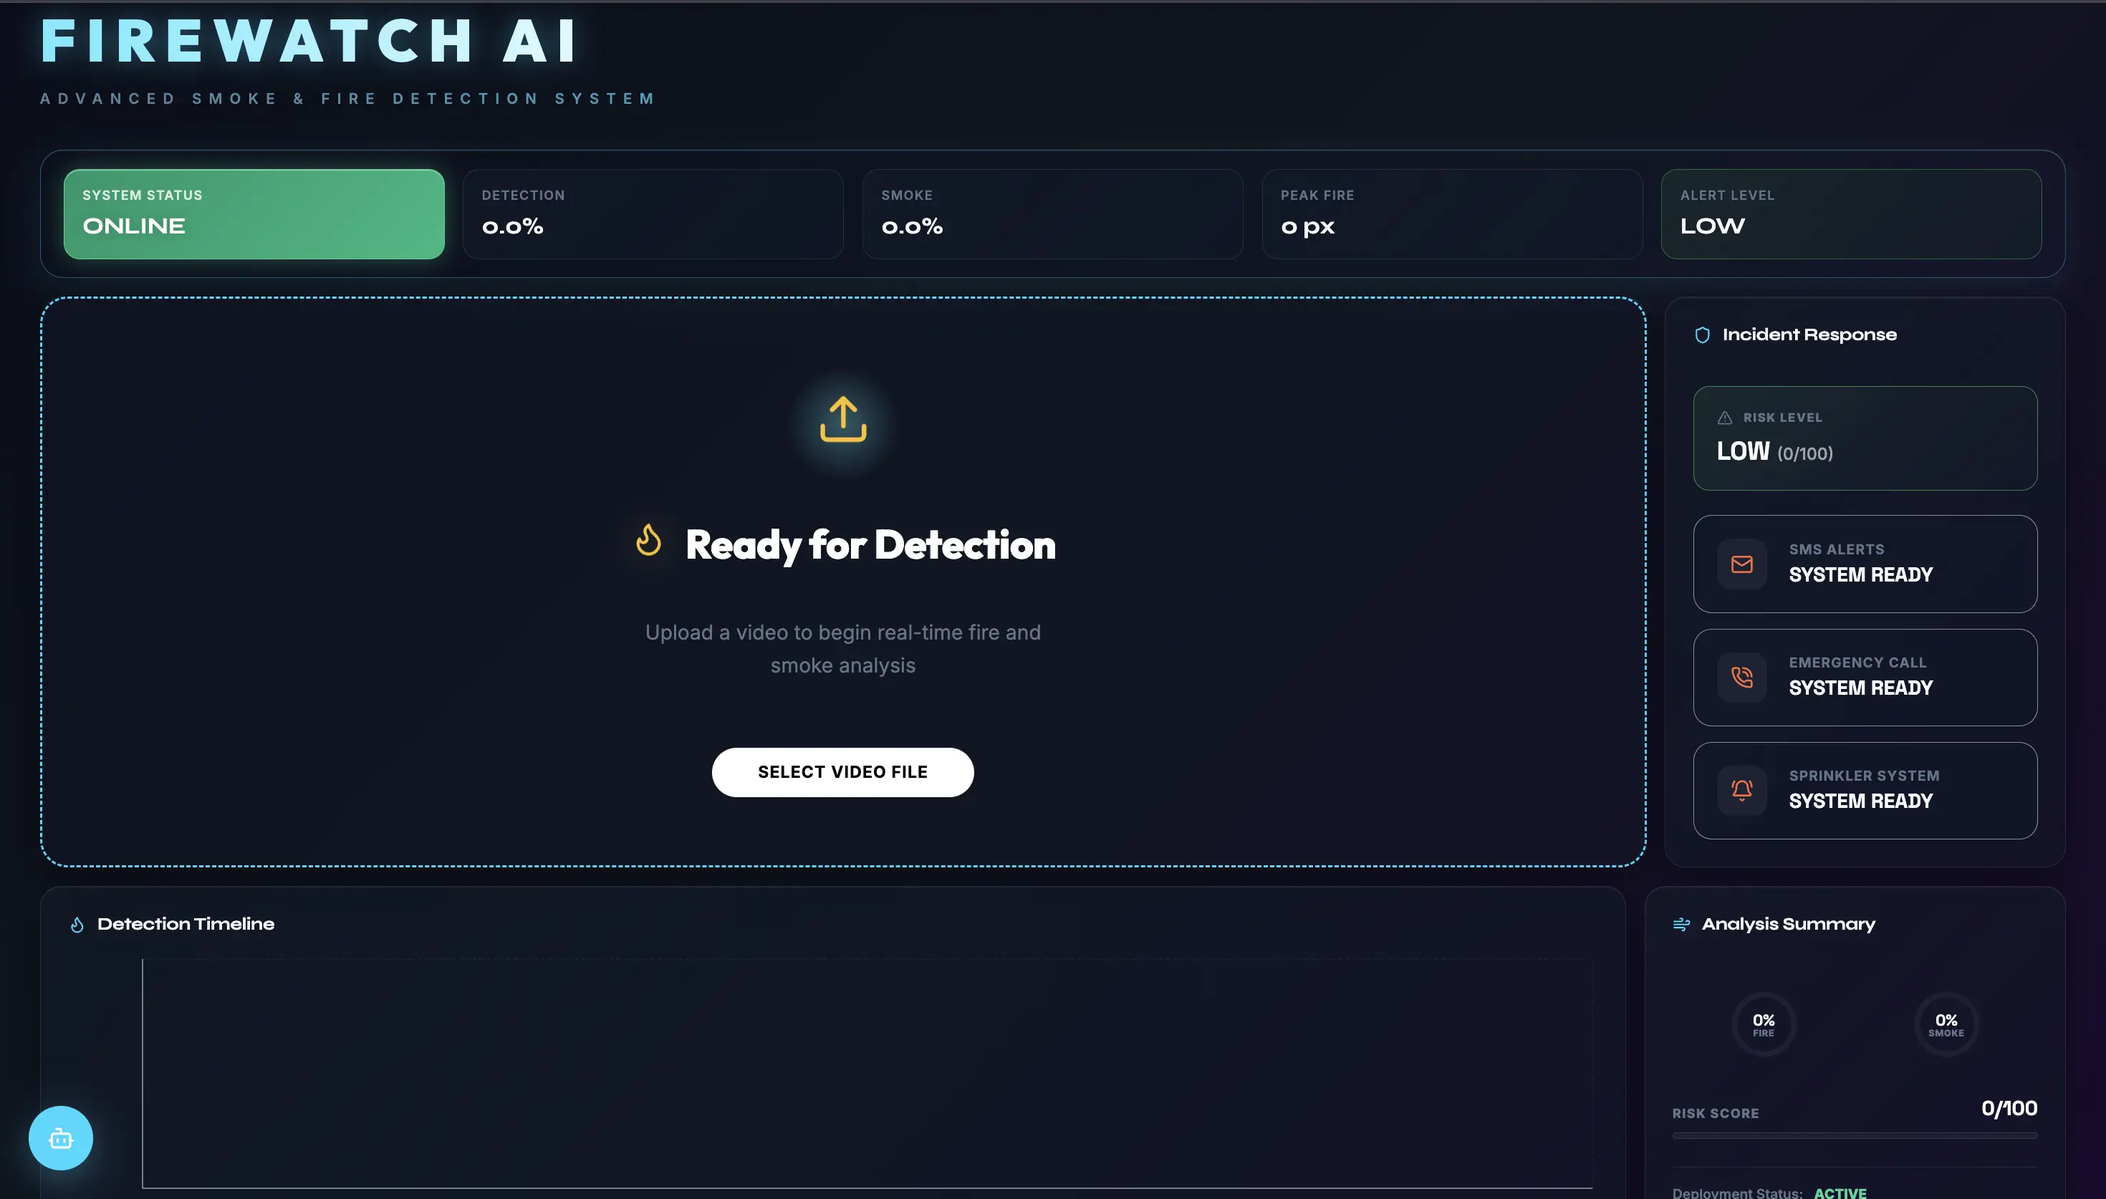
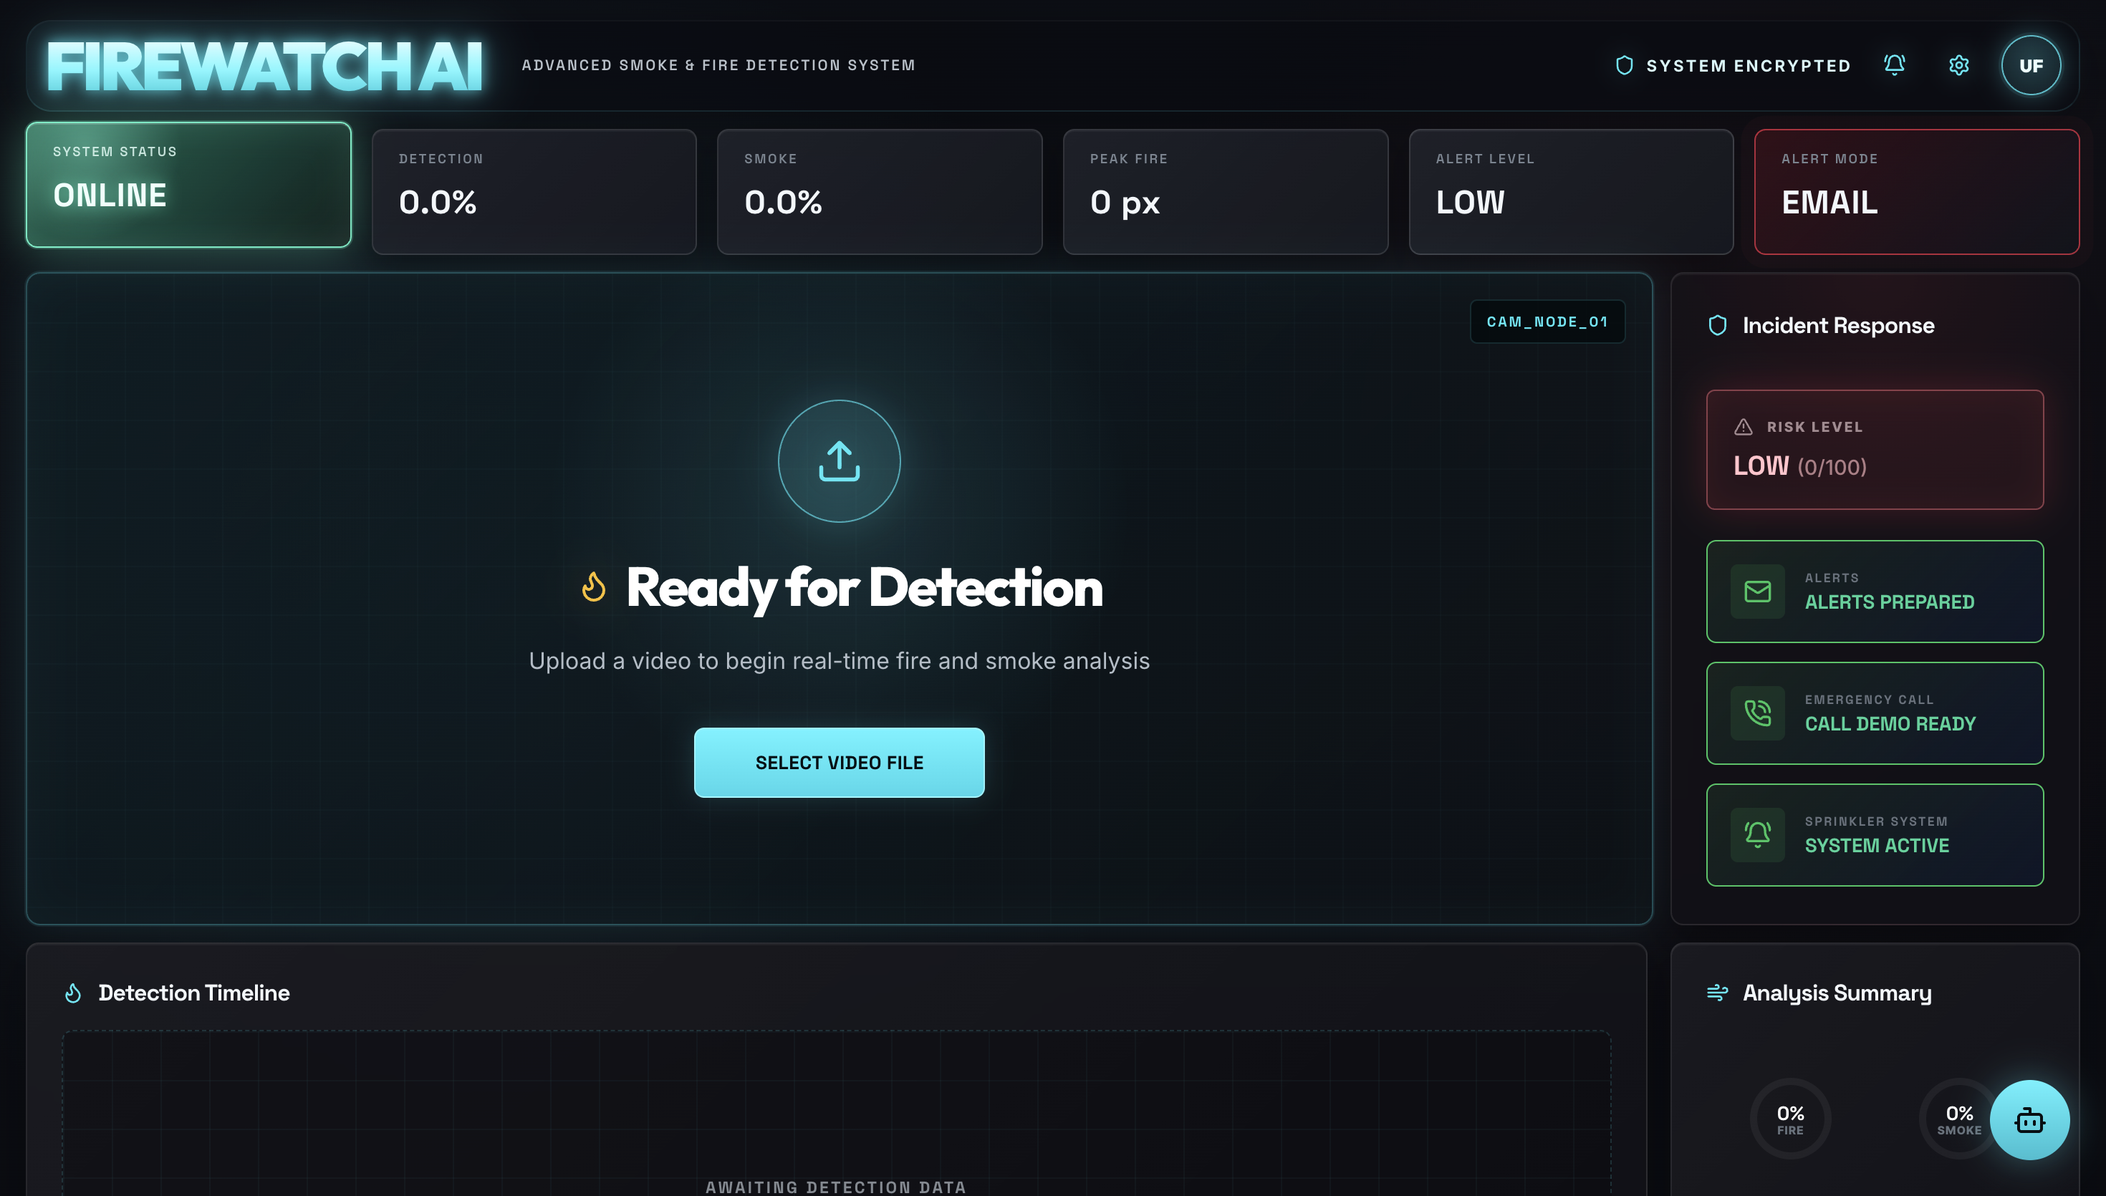
feat: add certificates section to portfolio, including new certificate cards and update navigation links

diff --git a/index.html b/index.html
@@ -4651,6 +4651,7 @@
     <ul class="nav-links">
       <li><a href="#about">About</a></li>
       <li><a href="#education">Education</a></li>
+      <li><a href="#certificates">Certificates</a></li>
       <li><a href="#experience">Experience</a></li>
       <li><a href="#projects">Projects</a></li>
       <li><a href="#skills">Skills</a></li>
@@ -4665,6 +4666,7 @@
   <div class="mob" id="mob">
     <a href="#about">About</a>
     <a href="#education">Education</a>
+    <a href="#certificates">Certificates</a>
     <a href="#experience">Experience</a>
     <a href="#projects">Projects</a>
     <a href="#skills">Skills</a>
@@ -4808,6 +4810,166 @@
             <span class="bdg ba">Biology A+</span><span class="bdg ba">Chemistry A+</span><span class="bdg ba">1085
               Marks</span><span class="bdg ba">98.6%</span>
           </div>
+        </div>
+      </div>
+    </div>
+  </section>
+
+  <section class="sec reveal" id="certificates">
+    <div class="inn">
+      <p class="sl sl-l" style="color:var(--amber)">Certificates</p>
+      <h2 class="st wr">
+        <span class="w"><span class="wi">Licenses &</span></span>
+        <span class="w"><span class="wi"><span class="gt3">Certifications</span></span></span>
+      </h2>
+      <div class="cert-section-title">Verified Credentials <span class="cert-count">8</span></div>
+      <div class="cert-grid">
+        <div class="cert-card glow-border hover-glow-only sk-p" onclick="openCertLightbox(0)" tabindex="0" role="button" aria-label="View Google Certificate">
+          <div class="border-glow"></div>
+          <div class="cert-card-img-wrap">
+            <img class="cert-card-img" src="docs/Google Certificate.webp" alt="Google Certificate" loading="lazy" />
+            <div class="cert-card-overlay">
+              <span>
+                <svg viewBox="0 0 24 24" fill="none" stroke-width="2" stroke-linecap="round" stroke-linejoin="round"><circle cx="11" cy="11" r="8"/><line x1="21" y1="21" x2="16.65" y2="16.65"/><line x1="11" y1="8" x2="11" y2="14"/><line x1="8" y1="11" x2="14" y2="11"/></svg>
+                View Certificate
+              </span>
+            </div>
+          </div>
+          <div class="cert-card-info">
+            <div class="cert-card-name">Google Certificate</div>
+            <div class="cert-card-issuer"><span class="cert-issuer-dot"></span>Google</div>
+          </div>
+        </div>
+        <div class="cert-card glow-border hover-glow-only sk-c" onclick="openCertLightbox(1)" tabindex="0" role="button" aria-label="View Professional Certificate">
+          <div class="border-glow"></div>
+          <div class="cert-card-img-wrap">
+            <img class="cert-card-img" src="docs/certificate-fmssrk5frsx3.webp" alt="Professional Certificate" loading="lazy" />
+            <div class="cert-card-overlay">
+              <span>
+                <svg viewBox="0 0 24 24" fill="none" stroke-width="2" stroke-linecap="round" stroke-linejoin="round"><circle cx="11" cy="11" r="8"/><line x1="21" y1="21" x2="16.65" y2="16.65"/><line x1="11" y1="8" x2="11" y2="14"/><line x1="8" y1="11" x2="14" y2="11"/></svg>
+                View Certificate
+              </span>
+            </div>
+          </div>
+          <div class="cert-card-info">
+            <div class="cert-card-name">Professional Certificate</div>
+            <div class="cert-card-issuer"><span class="cert-issuer-dot"></span>Verified Professional</div>
+          </div>
+        </div>
+        <div class="cert-card glow-border hover-glow-only sk-pk" onclick="openCertLightbox(2)" tabindex="0" role="button" aria-label="View AI Fluency for Students certificate">
+          <div class="border-glow"></div>
+          <div class="cert-card-img-wrap">
+            <img class="cert-card-img" src="docs/cert-new-2.webp" alt="AI Fluency for Students - Anthropic" loading="lazy" />
+            <div class="cert-card-overlay">
+              <span>
+                <svg viewBox="0 0 24 24" fill="none" stroke-width="2" stroke-linecap="round" stroke-linejoin="round"><circle cx="11" cy="11" r="8"/><line x1="21" y1="21" x2="16.65" y2="16.65"/><line x1="11" y1="8" x2="11" y2="14"/><line x1="8" y1="11" x2="14" y2="11"/></svg>
+                View Certificate
+              </span>
+            </div>
+          </div>
+          <div class="cert-card-info">
+            <div class="cert-card-name">AI Fluency for Students</div>
+            <div class="cert-card-issuer"><span class="cert-issuer-dot"></span>Anthropic</div>
+          </div>
+        </div>
+        <div class="cert-card glow-border hover-glow-only sk-g" onclick="openCertLightbox(3)" tabindex="0" role="button" aria-label="View Claude 101 certificate">
+          <div class="border-glow"></div>
+          <div class="cert-card-img-wrap">
+            <img class="cert-card-img" src="docs/cert-new-1.webp" alt="Claude 101 - Anthropic" loading="lazy" />
+            <div class="cert-card-overlay">
+              <span>
+                <svg viewBox="0 0 24 24" fill="none" stroke-width="2" stroke-linecap="round" stroke-linejoin="round"><circle cx="11" cy="11" r="8"/><line x1="21" y1="21" x2="16.65" y2="16.65"/><line x1="11" y1="8" x2="11" y2="14"/><line x1="8" y1="11" x2="14" y2="11"/></svg>
+                View Certificate
+              </span>
+            </div>
+          </div>
+          <div class="cert-card-info">
+            <div class="cert-card-name">Claude 101</div>
+            <div class="cert-card-issuer"><span class="cert-issuer-dot"></span>Anthropic</div>
+          </div>
+        </div>
+        <div class="cert-card glow-border hover-glow-only sk-a hidden-cert" data-extra-cert onclick="openCertLightbox(4)" tabindex="0" role="button" aria-label="View Claude Code 101 certificate">
+          <div class="border-glow"></div>
+          <div class="cert-card-img-wrap">
+            <img class="cert-card-img" src="docs/cert-new-3.webp" alt="Claude Code 101 - Anthropic" loading="lazy" />
+            <div class="cert-card-overlay">
+              <span>
+                <svg viewBox="0 0 24 24" fill="none" stroke-width="2" stroke-linecap="round" stroke-linejoin="round"><circle cx="11" cy="11" r="8"/><line x1="21" y1="21" x2="16.65" y2="16.65"/><line x1="11" y1="8" x2="11" y2="14"/><line x1="8" y1="11" x2="14" y2="11"/></svg>
+                View Certificate
+              </span>
+            </div>
+          </div>
+          <div class="cert-card-info">
+            <div class="cert-card-name">Claude Code 101</div>
+            <div class="cert-card-issuer"><span class="cert-issuer-dot"></span>Anthropic</div>
+          </div>
+        </div>
+        <div class="cert-card glow-border hover-glow-only sk-p hidden-cert" data-extra-cert onclick="openCertLightbox(5)" tabindex="0" role="button" aria-label="View AI Foundations certificate">
+          <div class="border-glow"></div>
+          <div class="cert-card-img-wrap">
+            <img class="cert-card-img" src="docs/cert-ai-foundations.webp" alt="AI Foundations - OpenAI Academy" loading="lazy" />
+            <div class="cert-card-overlay">
+              <span>
+                <svg viewBox="0 0 24 24" fill="none" stroke-width="2" stroke-linecap="round" stroke-linejoin="round"><circle cx="11" cy="11" r="8"/><line x1="21" y1="21" x2="16.65" y2="16.65"/><line x1="11" y1="8" x2="11" y2="14"/><line x1="8" y1="11" x2="14" y2="11"/></svg>
+                View Certificate
+              </span>
+            </div>
+          </div>
+          <div class="cert-card-info">
+            <div class="cert-card-name">AI Foundations</div>
+            <div class="cert-card-issuer"><span class="cert-issuer-dot"></span>OpenAI Academy</div>
+          </div>
+        </div>
+        <div class="cert-card glow-border hover-glow-only sk-c hidden-cert" data-extra-cert onclick="openCertLightbox(6)" tabindex="0" role="button" aria-label="View AI Fluency: Framework & Foundations certificate">
+          <div class="border-glow"></div>
+          <div class="cert-card-img-wrap">
+            <img class="cert-card-img" src="docs/cert-s3jn6owcs6f6.webp" alt="AI Fluency: Framework & Foundations - Anthropic" loading="lazy" />
+            <div class="cert-card-overlay">
+              <span>
+                <svg viewBox="0 0 24 24" fill="none" stroke-width="2" stroke-linecap="round" stroke-linejoin="round"><circle cx="11" cy="11" r="8"/><line x1="21" y1="21" x2="16.65" y2="16.65"/><line x1="11" y1="8" x2="11" y2="14"/><line x1="8" y1="11" x2="14" y2="11"/></svg>
+                View Certificate
+              </span>
+            </div>
+          </div>
+          <div class="cert-card-info">
+            <div class="cert-card-name">AI Fluency: Framework & Foundations</div>
+            <div class="cert-card-issuer"><span class="cert-issuer-dot"></span>Anthropic</div>
+          </div>
+        </div>
+        <div class="cert-card glow-border hover-glow-only sk-g hidden-cert" data-extra-cert onclick="openCertLightbox(7)" tabindex="0" role="button" aria-label="View Applied AI Foundations certificate">
+          <div class="border-glow"></div>
+          <div class="cert-card-img-wrap">
+            <img class="cert-card-img" src="docs/cert-rn2wppq639.webp" alt="Applied AI Foundations - OpenAI Academy" loading="lazy" />
+            <div class="cert-card-overlay">
+              <span>
+                <svg viewBox="0 0 24 24" fill="none" stroke-width="2" stroke-linecap="round" stroke-linejoin="round"><circle cx="11" cy="11" r="8"/><line x1="21" y1="21" x2="16.65" y2="16.65"/><line x1="11" y1="8" x2="11" y2="14"/><line x1="8" y1="11" x2="14" y2="11"/></svg>
+                View Certificate
+              </span>
+            </div>
+          </div>
+          <div class="cert-card-info">
+            <div class="cert-card-name">Applied AI Foundations</div>
+            <div class="cert-card-issuer"><span class="cert-issuer-dot"></span>OpenAI Academy</div>
+          </div>
+        </div>
+      </div>
+
+      <div class="show-more-wrap">
+        <button class="btn-show-more" id="showMoreCerts" onclick="toggleMoreCerts()" aria-expanded="false">
+          <span>Show More Certificates</span>
+          <svg width="16" height="16" viewBox="0 0 24 24" fill="none" stroke="currentColor" stroke-width="2"
+            stroke-linecap="round" stroke-linejoin="round">
+            <polyline points="6 9 12 15 18 9"></polyline>
+          </svg>
+        </button>
+      </div>
+
+      <!-- Certificate Lightbox -->
+      <div class="cert-lightbox" id="certLightbox">
+        <div class="cert-lightbox-inner">
+          <button class="cert-lightbox-close" onclick="closeCertLightbox()" aria-label="Close">✕</button>
+          <img class="cert-lightbox-img" id="certLightboxImg" src="" alt="Certificate" />
+          <div class="cert-lightbox-caption" id="certLightboxCaption"></div>
         </div>
       </div>
     </div>
@@ -5259,124 +5421,6 @@
         <span class="w"><span class="wi">I</span></span>
         <span class="w"><span class="wi"><span class="gt4">work with</span></span></span>
       </h2>
-      <div class="cert-section-title">Certifications <span class="cert-count">6</span></div>
-      <div class="cert-grid">
-        <div class="cert-card glow-border hover-glow-only sk-p" onclick="openCertLightbox(0)" tabindex="0" role="button" aria-label="View AI Fluency for Students certificate">
-          <div class="border-glow"></div>
-          <div class="cert-card-img-wrap">
-            <img class="cert-card-img" src="docs/cert-new-2.webp" alt="AI Fluency for Students - Anthropic" loading="lazy" />
-            <div class="cert-card-overlay">
-              <span>
-                <svg viewBox="0 0 24 24" fill="none" stroke-width="2" stroke-linecap="round" stroke-linejoin="round"><circle cx="11" cy="11" r="8"/><line x1="21" y1="21" x2="16.65" y2="16.65"/><line x1="11" y1="8" x2="11" y2="14"/><line x1="8" y1="11" x2="14" y2="11"/></svg>
-                View Certificate
-              </span>
-            </div>
-          </div>
-          <div class="cert-card-info">
-            <div class="cert-card-name">AI Fluency for Students</div>
-            <div class="cert-card-issuer"><span class="cert-issuer-dot"></span>Anthropic</div>
-          </div>
-        </div>
-        <div class="cert-card glow-border hover-glow-only sk-c" onclick="openCertLightbox(1)" tabindex="0" role="button" aria-label="View Claude 101 certificate">
-          <div class="border-glow"></div>
-          <div class="cert-card-img-wrap">
-            <img class="cert-card-img" src="docs/cert-new-1.webp" alt="Claude 101 - Anthropic" loading="lazy" />
-            <div class="cert-card-overlay">
-              <span>
-                <svg viewBox="0 0 24 24" fill="none" stroke-width="2" stroke-linecap="round" stroke-linejoin="round"><circle cx="11" cy="11" r="8"/><line x1="21" y1="21" x2="16.65" y2="16.65"/><line x1="11" y1="8" x2="11" y2="14"/><line x1="8" y1="11" x2="14" y2="11"/></svg>
-                View Certificate
-              </span>
-            </div>
-          </div>
-          <div class="cert-card-info">
-            <div class="cert-card-name">Claude 101</div>
-            <div class="cert-card-issuer"><span class="cert-issuer-dot"></span>Anthropic</div>
-          </div>
-        </div>
-        <div class="cert-card glow-border hover-glow-only sk-pk" onclick="openCertLightbox(2)" tabindex="0" role="button" aria-label="View Claude Code 101 certificate">
-          <div class="border-glow"></div>
-          <div class="cert-card-img-wrap">
-            <img class="cert-card-img" src="docs/cert-new-3.webp" alt="Claude Code 101 - Anthropic" loading="lazy" />
-            <div class="cert-card-overlay">
-              <span>
-                <svg viewBox="0 0 24 24" fill="none" stroke-width="2" stroke-linecap="round" stroke-linejoin="round"><circle cx="11" cy="11" r="8"/><line x1="21" y1="21" x2="16.65" y2="16.65"/><line x1="11" y1="8" x2="11" y2="14"/><line x1="8" y1="11" x2="14" y2="11"/></svg>
-                View Certificate
-              </span>
-            </div>
-          </div>
-          <div class="cert-card-info">
-            <div class="cert-card-name">Claude Code 101</div>
-            <div class="cert-card-issuer"><span class="cert-issuer-dot"></span>Anthropic</div>
-          </div>
-        </div>
-        <div class="cert-card glow-border hover-glow-only sk-g" onclick="openCertLightbox(3)" tabindex="0" role="button" aria-label="View AI Foundations certificate">
-          <div class="border-glow"></div>
-          <div class="cert-card-img-wrap">
-            <img class="cert-card-img" src="docs/cert-ai-foundations.webp" alt="AI Foundations - OpenAI Academy" loading="lazy" />
-            <div class="cert-card-overlay">
-              <span>
-                <svg viewBox="0 0 24 24" fill="none" stroke-width="2" stroke-linecap="round" stroke-linejoin="round"><circle cx="11" cy="11" r="8"/><line x1="21" y1="21" x2="16.65" y2="16.65"/><line x1="11" y1="8" x2="11" y2="14"/><line x1="8" y1="11" x2="14" y2="11"/></svg>
-                View Certificate
-              </span>
-            </div>
-          </div>
-          <div class="cert-card-info">
-            <div class="cert-card-name">AI Foundations</div>
-            <div class="cert-card-issuer"><span class="cert-issuer-dot"></span>OpenAI Academy</div>
-          </div>
-        </div>
-        <div class="cert-card glow-border hover-glow-only sk-a hidden-cert" data-extra-cert onclick="openCertLightbox(4)" tabindex="0" role="button" aria-label="View AI Fluency: Framework & Foundations certificate">
-          <div class="border-glow"></div>
-          <div class="cert-card-img-wrap">
-            <img class="cert-card-img" src="docs/cert-s3jn6owcs6f6.webp" alt="AI Fluency: Framework & Foundations - Anthropic" loading="lazy" />
-            <div class="cert-card-overlay">
-              <span>
-                <svg viewBox="0 0 24 24" fill="none" stroke-width="2" stroke-linecap="round" stroke-linejoin="round"><circle cx="11" cy="11" r="8"/><line x1="21" y1="21" x2="16.65" y2="16.65"/><line x1="11" y1="8" x2="11" y2="14"/><line x1="8" y1="11" x2="14" y2="11"/></svg>
-                View Certificate
-              </span>
-            </div>
-          </div>
-          <div class="cert-card-info">
-            <div class="cert-card-name">AI Fluency: Framework & Foundations</div>
-            <div class="cert-card-issuer"><span class="cert-issuer-dot"></span>Anthropic</div>
-          </div>
-        </div>
-        <div class="cert-card glow-border hover-glow-only sk-g hidden-cert" data-extra-cert onclick="openCertLightbox(5)" tabindex="0" role="button" aria-label="View Applied AI Foundations certificate">
-          <div class="border-glow"></div>
-          <div class="cert-card-img-wrap">
-            <img class="cert-card-img" src="docs/cert-rn2wppq639.webp" alt="Applied AI Foundations - OpenAI Academy" loading="lazy" />
-            <div class="cert-card-overlay">
-              <span>
-                <svg viewBox="0 0 24 24" fill="none" stroke-width="2" stroke-linecap="round" stroke-linejoin="round"><circle cx="11" cy="11" r="8"/><line x1="21" y1="21" x2="16.65" y2="16.65"/><line x1="11" y1="8" x2="11" y2="14"/><line x1="8" y1="11" x2="14" y2="11"/></svg>
-                View Certificate
-              </span>
-            </div>
-          </div>
-          <div class="cert-card-info">
-            <div class="cert-card-name">Applied AI Foundations</div>
-            <div class="cert-card-issuer"><span class="cert-issuer-dot"></span>OpenAI Academy</div>
-          </div>
-        </div>
-      </div>
-
-      <div class="show-more-wrap">
-        <button class="btn-show-more" id="showMoreCerts" onclick="toggleMoreCerts()" aria-expanded="false">
-          <span>Show More Certificates</span>
-          <svg width="16" height="16" viewBox="0 0 24 24" fill="none" stroke="currentColor" stroke-width="2"
-            stroke-linecap="round" stroke-linejoin="round">
-            <polyline points="6 9 12 15 18 9"></polyline>
-          </svg>
-        </button>
-      </div>
-
-      <!-- Certificate Lightbox -->
-      <div class="cert-lightbox" id="certLightbox">
-        <div class="cert-lightbox-inner">
-          <button class="cert-lightbox-close" onclick="closeCertLightbox()" aria-label="Close">✕</button>
-          <img class="cert-lightbox-img" id="certLightboxImg" src="" alt="Certificate" />
-          <div class="cert-lightbox-caption" id="certLightboxCaption"></div>
-        </div>
-      </div>
       <div class="sk-grid stg">
         <div class="sk-grp sk-c">
           <h3 style="color:var(--cyan)">AI & ML</h3>
@@ -6237,6 +6281,8 @@
 
     /* ── Certification Lightbox ── */
     const certData = [
+      { src: 'docs/Google Certificate.webp', caption: 'Google Certificate' },
+      { src: 'docs/certificate-fmssrk5frsx3.webp', caption: 'Professional Certificate' },
       { src: 'docs/cert-new-2.webp', caption: 'AI Fluency for Students - Anthropic' },
       { src: 'docs/cert-new-1.webp', caption: 'Claude 101 - Anthropic' },
       { src: 'docs/cert-new-3.webp', caption: 'Claude Code 101 - Anthropic' },
